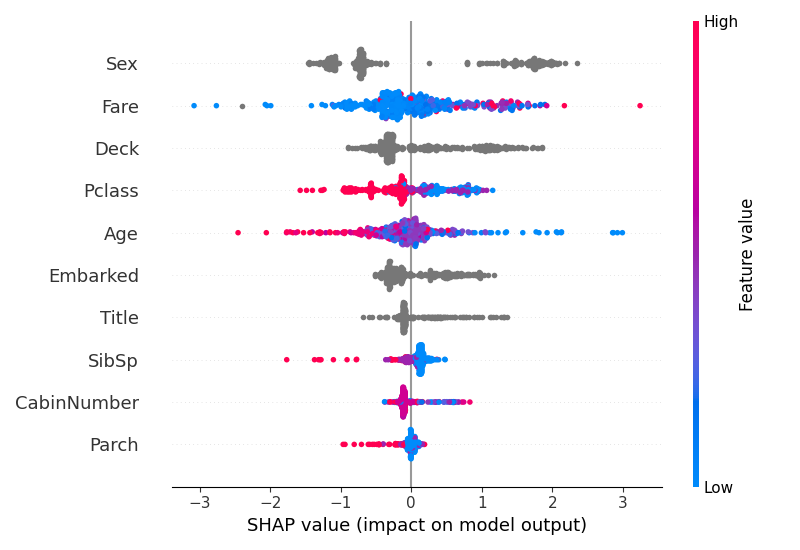
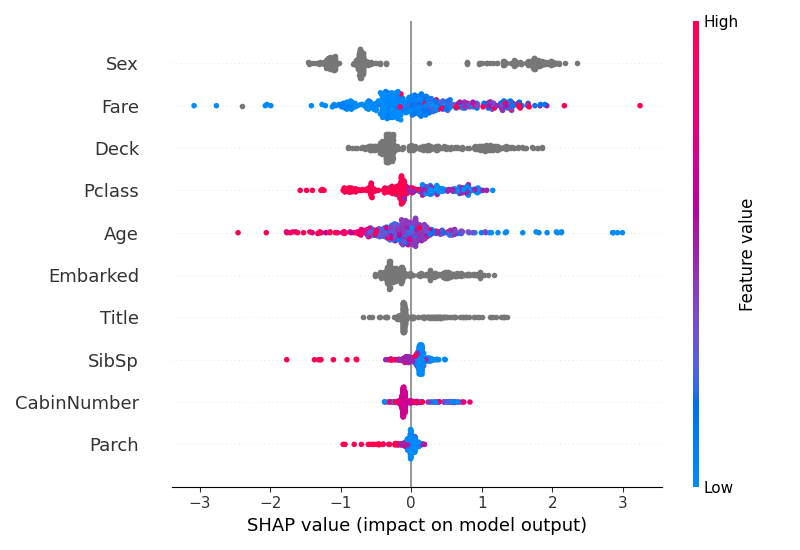
dumped second notebook code into main.py

diff --git a/__init__.py b/__init__.py
@@ -1,0 +1,248 @@
+def train_predict_plot_titanic():
+    import os
+    import zipfile
+    from pathlib import Path
+    from kaggle.api.kaggle_api_extended import KaggleApi
+
+    api = KaggleApi()
+    api.authenticate()
+
+    dataset = "titanic"  # original competition dataset
+    dataset_test = "wesleyhowe/titanic-labelled-test-set"  # test set augmented with target labels
+    download_folder = Path("data/titanic")
+    zip_path = download_folder / "titanic.zip"
+    download_folder.mkdir(parents=True, exist_ok=True)
+
+    api.competition_download_files(dataset, path=str(download_folder))
+    api.dataset_download_files(dataset_test, path=str(download_folder), unzip=True)
+
+    with zipfile.ZipFile(zip_path, "r") as zip_ref:
+        zip_ref.extractall(str(download_folder))
+
+    os.remove(zip_path)
+
+    import pandas as pd
+
+    df_train = pd.read_csv(download_folder / "train.csv")
+    df_ids = df_train.pop("PassengerId")  # set aside PassengerId
+    df_train = df_train.drop(columns=["Ticket"])
+
+    import re
+    def extract_title(name):
+        match = re.search(r',\s*([\w\s]+)\.', name)
+        return match.group(1) if match else None
+    df_train["Title"] = df_train["Name"].apply(extract_title)
+
+    # pattern to match a letter followed by a number
+    pattern = r'([A-Za-z]+)(\d+)'
+
+    # run pattern on Cabin to extract all matches
+    matches = df_train['Cabin'].str.extractall(pattern)
+    matches.reset_index(inplace=True)
+
+    # create a new column for each letter and number matched
+    result = matches.pivot(index='level_0', columns='match', values=[0, 1])
+    result.columns = [f"{col[0]}_{col[1]}" for col in result.columns]
+
+    # join to original train dataframe
+    df_train = df_train.join(result[["0_0", "1_0"]])
+
+    # fill nans
+    df_train["1_0"] = df_train["1_0"].astype(float)
+    df_train = df_train.fillna({"0_0": "N", "1_0": df_train["1_0"].mean()})
+    df_train["1_0"] = df_train["1_0"].astype(int)
+
+    # rename new columns and drop old ones
+    df_train = df_train.rename(columns={"0_0": "Deck", "1_0": "CabinNumber"})
+    df_train.drop(columns=["Cabin", "Name"], axis=1, inplace=True)
+
+    df_train = df_train.fillna({"Embarked": "N", "Age": df_train["Age"].mean()})
+
+    categorical = [
+        "Pclass", 
+        "Sex", 
+        "Embarked",
+        "Deck",
+        "Title"
+    ]
+
+    y_train = df_train.pop("Survived")
+    X_train = df_train
+
+    categorical_indices = [X_train.columns.get_loc(col) for col in categorical if col in X_train.columns]
+
+    import joblib
+    import optuna
+    from sklearn.model_selection import train_test_split
+    from catboost import CatBoostClassifier, Pool, cv
+
+    outfolder = Path("results")
+    outfolder.mkdir(parents=True, exist_ok=True)
+
+    best_params_path = outfolder / "best_params_v2.pkl"
+
+    if not best_params_path.is_file():
+        X_train_opt, X_val_opt, y_train_opt, y_val_opt = train_test_split(X_train, y_train, test_size=0.25, random_state=42)
+        
+        def objective(trial):
+            params = {
+                "depth": trial.suggest_int("depth", 2, 10),
+                "learning_rate": trial.suggest_float("learning_rate", 1e-4, 0.3),
+                "iterations": trial.suggest_int("iterations", 50, 300),
+                "l2_leaf_reg": trial.suggest_float("l2_leaf_reg", 1e-5, 100.0, log=True),
+                "bagging_temperature": trial.suggest_float("bagging_temperature", 0.01, 1),
+                "random_strength": trial.suggest_float("random_strength", 1e-5, 100.0, log=True)
+            }
+            model = CatBoostClassifier(**params, verbose=0)
+            model.fit(X_train_opt, y_train_opt, eval_set=(X_val_opt, y_val_opt), cat_features=categorical_indices, early_stopping_rounds=50)
+            return model.get_best_score()["validation"]["Logloss"]
+        study = optuna.create_study(direction="minimize")
+        study.optimize(objective, n_trials=50)
+        
+        joblib.dump(study.best_params, best_params_path)
+        params = study.best_params
+    else:
+        params = joblib.load(best_params_path)
+
+    params["eval_metric"] = "F1"
+    params["loss_function"] = "Logloss"
+
+    model = CatBoostClassifier(
+        **params,
+        verbose=True
+    )
+
+    data = Pool(X_train, y_train, cat_features=categorical_indices)
+
+    cv_results = cv(
+        params=params,
+        pool=data,
+        fold_count=5,
+        partition_random_seed=42,
+        shuffle=True,
+    )
+
+    cv_results.to_csv(outfolder / "cv_results_v2.csv", index=False)
+
+    import plotly.graph_objects as go
+
+    # Create figure
+    fig = go.Figure()
+
+    # Add mean performance line
+    fig.add_trace(
+        go.Scatter(
+            x=cv_results["iterations"], y=cv_results["test-F1-mean"], mode="lines", name="Mean F1 Score", line=dict(color="blue")
+        )
+    )
+
+    # Add shaded error region
+    fig.add_trace(
+        go.Scatter(
+            x=pd.concat([cv_results["iterations"], cv_results["iterations"][::-1]]),
+            y=pd.concat([cv_results["test-F1-mean"]+cv_results["test-F1-std"], 
+                        cv_results["test-F1-mean"]-cv_results["test-F1-std"]]),
+            fill="toself", 
+            fillcolor="rgba(0, 0, 255, 0.2)",
+            line=dict(color="rgba(255, 255, 255, 0)"),
+            showlegend=False
+        )
+    )
+
+    # Customize layout
+    fig.update_layout(
+        title="Cross-Validation (N=5) Mean F1 score with Error Bands",
+        xaxis_title="Training Steps",
+        yaxis_title="Performance Score",
+        template="plotly_white",
+        yaxis=dict(range=[0.5, 1])
+    )
+
+    fig.show()
+
+    fig.write_image(outfolder / "test_f1_v2.png")
+
+    import plotly.graph_objects as go
+
+    # Create figure
+    fig = go.Figure()
+
+    # Add mean performance line
+    fig.add_trace(
+        go.Scatter(
+            x=cv_results["iterations"], y=cv_results["test-Logloss-mean"], mode="lines", name="Mean logloss", line=dict(color="blue")
+        )
+    )
+
+    # Add shaded error region
+    fig.add_trace(
+        go.Scatter(
+            x=pd.concat([cv_results["iterations"], cv_results["iterations"][::-1]]),
+            y=pd.concat([cv_results["test-Logloss-mean"]+cv_results["test-Logloss-std"], 
+                        cv_results["test-Logloss-mean"]-cv_results["test-Logloss-std"]]),
+            fill="toself", 
+            fillcolor="rgba(0, 0, 255, 0.2)",
+            line=dict(color="rgba(255, 255, 255, 0)"),
+            showlegend=False
+        )
+    )
+
+    # Customize layout
+    fig.update_layout(
+        title="Cross-Validation (N=5) Mean Logloss with Error Bands",
+        xaxis_title="Training Steps",
+        yaxis_title="Logloss",
+        template="plotly_white"
+    )
+
+    fig.write_image(outfolder / "test_logloss_v2.png")
+
+    model.fit(
+        X_train,
+        y_train,
+        verbose_eval=50,
+        early_stopping_rounds=50,
+        cat_features=categorical_indices,
+        use_best_model=False,
+        plot=True
+    )
+
+    model.save_model(outfolder / 'catboost_model_titanic_v2.cbm')
+    joblib.dump(params, outfolder / 'model_params_v2.pkl')
+
+    df_test = pd.read_csv(download_folder / "test.csv")
+    df_test = df_test.drop(columns=["Ticket"])
+    df_test_id = df_test.pop("PassengerId")
+    df_test = df_test.fillna({"Embarked": "N", "Age": X_train["Age"].mean()})
+
+    pattern = r'([A-Za-z]+)(\d+)'
+    matches = df_test['Cabin'].str.extractall(pattern)
+    matches.reset_index(inplace=True)
+    result = matches.pivot(index='level_0', columns='match', values=[0, 1])
+    result.columns = [f"{col[0]}_{col[1]}" for col in result.columns]
+    df_test = df_test.join(result[["0_0", "1_0"]])
+    df_test["1_0"] = df_test["1_0"].astype(float)
+    df_test = df_test.fillna({"0_0": "N", "1_0": X_train["CabinNumber"].mean()})
+    df_test["1_0"] = df_test["1_0"].astype(int)
+    df_test = df_test.rename(columns={"0_0": "Deck", "1_0": "CabinNumber"})
+
+    df_test["Title"] = df_test["Name"].apply(extract_title)
+
+    df_test.drop(columns=["Cabin", "Name"], axis=1, inplace=True)
+
+    preds = model.predict(df_test[X_train.columns])
+
+    import shap
+    import matplotlib.pyplot as plt
+    explainer = shap.TreeExplainer(model)
+    shap_values = explainer.shap_values(df_test[X_train.columns])
+
+    shap.summary_plot(shap_values, df_test, show=False)
+    plt.savefig(outfolder / "test_shap_overall_v2.png")
+
+    df_test["PassengerId"] = df_test_id
+    df_test["Survived"] = preds
+    df_test[["PassengerId", "Survived"]].to_csv(outfolder / "predictions_v2.csv", index=False)
+
+if __name__ == "__main__":
+    train_predict_plot_titanic()
